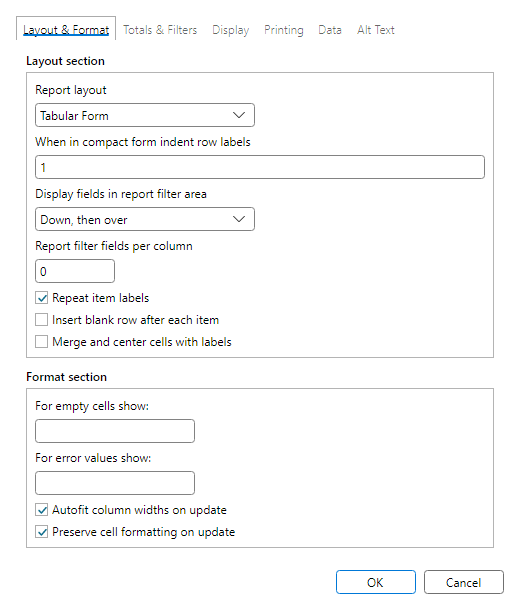
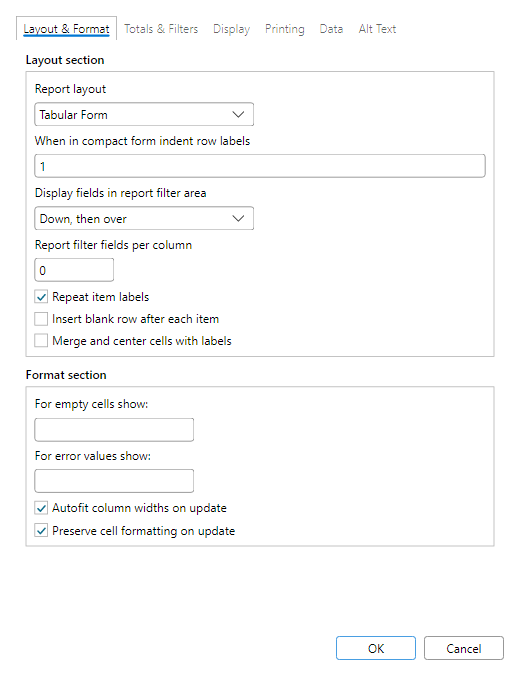
Close remaining FreeX dialog evidence limitations

Changed region(s): [[0.0308, 0.0, 0.9538, 0.9033], [0.6462, 0.9344, 0.9846, 0.9967], [0.6154, 0.0311, 0.7692, 0.0623]]

diff --git a/src/FreeX.App.Avalonia/MainWindow.ParityCapture.cs b/src/FreeX.App.Avalonia/MainWindow.ParityCapture.cs
@@ -1673,7 +1673,13 @@ public sealed partial class MainWindow
 
         try
         {
-            // Default surface first (whatever tab the dialog opens on).
+            // Default surface first (whatever tab the dialog opens on). Pump once before
+            // rendering so SizeToContent tab dialogs settle to the same frame the tab
+            // captures use after changing SelectedIndex.
+            await Task.Delay(ParityCaptureDialogPollMilliseconds);
+            await Dispatcher.UIThread.InvokeAsync(() => { }, DispatcherPriority.Render);
+            try { dialog.UpdateLayout(); } catch { /* best-effort */ }
+            Dispatcher.UIThread.RunJobs(DispatcherPriority.Render);
             results.Add(RenderParityDialogTab(outputDirectory, dialog, surfaceId, defaultPng, kind));
 
             // A real TabControl drives selection via SelectedIndex; the Options dialog instead carries an

diff --git a/src/FreeX.App.Presentation/PivotUI/PivotOptionsPlanner.cs b/src/FreeX.App.Presentation/PivotUI/PivotOptionsPlanner.cs
@@ -79,7 +79,7 @@ public static class PivotOptionsPlanner
     public const int DialogWidth = 520;
     public const int DialogMinHeight = 500;
     public const int LayoutAndFormatCaptureHeight = 676;
-    public const int LayoutAndFormatAvaloniaSpacerHeight = 56;
+    public const int LayoutAndFormatAvaloniaSpacerHeight = 57;
 
     public const string CompactIndentRangeMessage =
         "Enter a compact-form row-label indent between 0 and 15.";

diff --git a/docs/parity/dialog-visual-evidence-summary.md b/docs/parity/dialog-visual-evidence-summary.md
@@ -31,20 +31,19 @@ Sources:
 | WPF manifest ids without Avalonia pair | 0 |
 | Avalonia-manifest-only screenshot surface ids needing WPF manifest pair | 0 |
 | Nonblank PNG check failures | 0 |
-| Paired dimension mismatches (scale-aware logical units) | 32 |
-| Raw PNG pixel dimension mismatches | 61 |
+| Paired dimension mismatches (scale-aware logical units) | 29 |
+| Raw PNG pixel dimension mismatches | 58 |
 | Raw PNG mismatches normalized by capture DPI | 29 |
-| Paired expected-size evidence mismatches | 3 |
+| Paired expected-size evidence mismatches | 0 |
 | Stale promoted expected-size evidence | 0 |
 
 ## Scale-Aware Dimension Mismatch Classification
 
-The 32 scale-aware logical dimension mismatches are bucketed from committed PNG evidence and deterministic surface-id rules. Buckets describe the next review posture: align real layout sizes, fix content/state drift before comparing, accept expected platform/native control differences, or refresh limited evidence.
+The 29 scale-aware logical dimension mismatches are bucketed from committed PNG evidence and deterministic surface-id rules. Buckets describe the next review posture: align real layout sizes, fix content/state drift before comparing, accept expected platform/native control differences, or refresh limited evidence.
 
 | Bucket | Count | Top surface ids | Top next action |
 | --- | ---: | --- | --- |
 | content/visual mismatch | 10 | dialog.FormatCells.Fill<br>dialog.FormatCells.Alignment<br>dialog.FormatCells<br>dialog.FormatCells.Number<br>dialog.FormatCells.Border | Review the Format Cells tab model, tab order, and target frame size together. |
-| evidence limitation | 3 | dialog.PivotTableOptions<br>dialog.PivotTableOptions.LayoutAndFormat<br>dialog.ShapeGradient | Recapture or replace the stale evidence before treating this as a product layout mismatch. |
 | expected platform/native difference | 19 | dialog.FindReplace.Replace<br>dialog.FindReplace<br>dialog.FindReplace.Find<br>dialog.Sparkline<br>dialog.Options.QuickAccessToolbar | Keep as expected platform/native variance unless parity policy later requires exact control metrics. |
 
 ## Top paired visual outliers
@@ -94,11 +93,8 @@ Outliers are ranked by a deterministic triage score: normalized 32x32 ARGB sampl
 | dialog.Options.Save | expected platform/native difference | 744x521 | 760x560 | 16x39 | The PNGs show the same paired surface with small WPF/Avalonia control, chrome, or default-spacing differences. | Keep as expected platform/native variance unless parity policy later requires exact control metrics. |
 | dialog.Options.TrustCenter | expected platform/native difference | 744x521 | 760x560 | 16x39 | The PNGs show the same paired surface with small WPF/Avalonia control, chrome, or default-spacing differences. | Keep as expected platform/native variance unless parity policy later requires exact control metrics. |
 | dialog.Options.View | expected platform/native difference | 744x521 | 760x560 | 16x39 | The PNGs show the same paired surface with small WPF/Avalonia control, chrome, or default-spacing differences. | Keep as expected platform/native variance unless parity policy later requires exact control metrics. |
-| dialog.PivotTableOptions | evidence limitation | 520x676 | 520x610 | 0x66 | The checked-in PNG disagrees with an explicit expected capture size, so the dimension delta is suspect evidence. | Recapture or replace the stale evidence before treating this as a product layout mismatch. |
-| dialog.PivotTableOptions.LayoutAndFormat | evidence limitation | 520x676 | 520x610 | 0x66 | The checked-in PNG disagrees with an explicit expected capture size, so the dimension delta is suspect evidence. | Recapture or replace the stale evidence before treating this as a product layout mismatch. |
 | dialog.ProtectWorkbook | expected platform/native difference | 360x250 | 380x240 | 20x10 | The PNGs show the same paired surface with small WPF/Avalonia control, chrome, or default-spacing differences. | Keep as expected platform/native variance unless parity policy later requires exact control metrics. |
 | dialog.SelectDataSource | content/visual mismatch | 620x500 | 468x499 | 152x1 | The committed PNGs show different dialog content/state, so the size delta is not isolated layout evidence. | Align the harness data/state first, then reclassify any residual logical-size delta. |
-| dialog.ShapeGradient | evidence limitation | 500x333 | 500x300 | 0x33 | The checked-in PNG disagrees with an explicit expected capture size, so the dimension delta is suspect evidence. | Recapture or replace the stale evidence before treating this as a product layout mismatch. |
 | dialog.Sparkline | expected platform/native difference | 380x240 | 372x230 | 8x10 | The PNGs show the same paired surface with small WPF/Avalonia control, chrome, or default-spacing differences. | Keep as expected platform/native variance unless parity policy later requires exact control metrics. |
 
 ## Expected-Size Evidence Mismatches
@@ -107,9 +103,6 @@ These rows have a DPI-normalized checked-in PNG size that disagrees with the dia
 
 | Surface id | Expected logical size | Source | WPF logical size | WPF raw PNG | WPF matches | Avalonia logical size | Avalonia raw PNG | Avalonia matches |
 | --- | ---: | --- | ---: | ---: | --- | ---: | ---: | --- |
-| dialog.PivotTableOptions | 520x676 | PivotOptionsPlanner.DialogWidth/LayoutAndFormatCaptureHeight | 520x676 | 520x676 px @ 96 DPI | True | 520x610 | 520x610 px @ 96 DPI | False |
-| dialog.PivotTableOptions.LayoutAndFormat | 520x676 | PivotOptionsPlanner.DialogWidth/LayoutAndFormatCaptureHeight | 520x676 | 520x676 px @ 96 DPI | True | 520x610 | 520x610 px @ 96 DPI | False |
-| dialog.ShapeGradient | 500x300 | ShapeGradientPlanner.DialogWidth/DialogHeight | 500x333 | 500x333 px @ 96 DPI | False | 500x300 | 500x300 px @ 96 DPI | True |
 
 ## Paired manifest surfaces
 
@@ -175,11 +168,11 @@ These rows have a DPI-normalized checked-in PNG size that disagrees with the dia
 | dialog.PivotFieldFilter.LabelFilters | dialog.PivotFieldFilter.LabelFilters.png | 380x470 | 380x470 px @ 96 DPI | True | dialog.PivotFieldFilter.LabelFilters.png | 380x470 | 380x470 px @ 96 DPI | True | True | 0.453 |
 | dialog.PivotFieldFilter.SelectItems | dialog.PivotFieldFilter.SelectItems.png | 380x470 | 380x470 px @ 96 DPI | True | dialog.PivotFieldFilter.SelectItems.png | 380x470 | 380x470 px @ 96 DPI | True | True | 0.423 |
 | dialog.PivotFieldFilter.ValueFilters | dialog.PivotFieldFilter.ValueFilters.png | 380x470 | 380x470 px @ 96 DPI | True | dialog.PivotFieldFilter.ValueFilters.png | 380x470 | 380x470 px @ 96 DPI | True | True | 0.452 |
-| dialog.PivotTableOptions | dialog.PivotTableOptions.png | 520x676 | 520x676 px @ 96 DPI | True | dialog.PivotTableOptions.png | 520x610 | 520x610 px @ 96 DPI | True | False | 0.464 |
+| dialog.PivotTableOptions | dialog.PivotTableOptions.png | 520x676 | 520x676 px @ 96 DPI | True | dialog.PivotTableOptions.png | 520x676 | 520x676 px @ 96 DPI | True | True | 0.358 |
 | dialog.PivotTableOptions.AltText | dialog.PivotTableOptions.AltText.png | 520x500 | 520x500 px @ 96 DPI | True | dialog.PivotTableOptions.AltText.png | 520x500 | 520x500 px @ 96 DPI | True | True | 0.470 |
 | dialog.PivotTableOptions.Data | dialog.PivotTableOptions.Data.png | 520x500 | 520x500 px @ 96 DPI | True | dialog.PivotTableOptions.Data.png | 520x500 | 520x500 px @ 96 DPI | True | True | 0.549 |
 | dialog.PivotTableOptions.Display | dialog.PivotTableOptions.Display.png | 520x500 | 520x500 px @ 96 DPI | True | dialog.PivotTableOptions.Display.png | 520x500 | 520x500 px @ 96 DPI | True | True | 0.114 |
-| dialog.PivotTableOptions.LayoutAndFormat | dialog.PivotTableOptions.LayoutAndFormat.png | 520x676 | 520x676 px @ 96 DPI | True | dialog.PivotTableOptions.LayoutAndFormat.png | 520x610 | 520x610 px @ 96 DPI | True | False | 0.464 |
+| dialog.PivotTableOptions.LayoutAndFormat | dialog.PivotTableOptions.LayoutAndFormat.png | 520x676 | 520x676 px @ 96 DPI | True | dialog.PivotTableOptions.LayoutAndFormat.png | 520x676 | 520x676 px @ 96 DPI | True | True | 0.358 |
 | dialog.PivotTableOptions.Printing | dialog.PivotTableOptions.Printing.png | 520x500 | 520x500 px @ 96 DPI | True | dialog.PivotTableOptions.Printing.png | 520x500 | 520x500 px @ 96 DPI | True | True | 0.561 |
 | dialog.PivotTableOptions.TotalsAndFilters | dialog.PivotTableOptions.TotalsAndFilters.png | 520x500 | 520x500 px @ 96 DPI | True | dialog.PivotTableOptions.TotalsAndFilters.png | 520x500 | 520x500 px @ 96 DPI | True | True | 0.489 |
 | dialog.PivotValueFieldSettings | dialog.PivotValueFieldSettings.png | 430x430 | 430x430 px @ 96 DPI | True | dialog.PivotValueFieldSettings.png | 430x430 | 430x430 px @ 96 DPI | True | True | 0.472 |
@@ -197,7 +190,7 @@ These rows have a DPI-normalized checked-in PNG size that disagrees with the dia
 | dialog.SelectDataSource | dialog.SelectDataSource.png | 620x500 | 930x750 px @ 144 DPI | True | dialog.SelectDataSource.png | 468x499 | 468x499 px @ 96 DPI | True | False | 0.404 |
 | dialog.SelectionPane | dialog.SelectionPane.png | 520x440 | 520x440 px @ 96 DPI | True | dialog.SelectionPane.png | 520x440 | 520x440 px @ 96 DPI | True | True | 0.122 |
 | dialog.ShapeEffects | dialog.ShapeEffects.png | 380x190 | 570x285 px @ 144 DPI | True | dialog.ShapeEffects.png | 380x190 | 380x190 px @ 96 DPI | True | True | 0.215 |
-| dialog.ShapeGradient | dialog.ShapeGradient.png | 500x333 | 500x333 px @ 96 DPI | True | dialog.ShapeGradient.png | 500x300 | 500x300 px @ 96 DPI | True | False | 0.210 |
+| dialog.ShapeGradient | dialog.ShapeGradient.png | 500x300 | 500x300 px @ 96 DPI | True | dialog.ShapeGradient.png | 500x300 | 500x300 px @ 96 DPI | True | True | 0.082 |
 | dialog.Sort | dialog.Sort.png | 760x500 | 760x500 px @ 96 DPI | True | dialog.Sort.png | 760x500 | 760x500 px @ 96 DPI | True | True | 0.042 |
 | dialog.SortOptions | dialog.SortOptions.png | 330x260 | 495x390 px @ 144 DPI | True | dialog.SortOptions.png | 330x260 | 330x260 px @ 96 DPI | True | True | 0.237 |
 | dialog.Sparkline | dialog.Sparkline.png | 380x240 | 570x360 px @ 144 DPI | True | dialog.Sparkline.png | 372x230 | 372x230 px @ 96 DPI | True | False | 0.307 |

diff --git a/docs/parity/avalonia-wpf-cross-app-dashboard.md b/docs/parity/avalonia-wpf-cross-app-dashboard.md
@@ -6,9 +6,9 @@ Generated by `tools/Generate-CrossAppParityDashboard.ps1` from existing generate
 
 | App | Primary evidence | Current generated state | Next slice |
 |---|---|---|---|
-| FreeX | Functional matrix, classifier, dialog inventory, dialog visual evidence, command surface | 531 functional commands; 473 parity; 0 Avalonia-missing; 0 real classified binding gaps; 48 catalog-backed pseudo-gallery rows (34 conditional-format, 10 font/border, 4 accounting-symbol); 57/57 dialog routes captured on WPF and Avalonia; 93 paired screenshot surface ids, 0 Avalonia-only ids, 0 WPF-only ids; 61 raw PNG pixel mismatches, 29 DPI-normalized matches, 0 real logical-size mismatches | Command/dialog route coverage is green; all 48 pseudo-gallery rows are catalog-backed in classifier evidence (34 conditional-format rows over 38 runtime catalog items, 10 font/border rows, and 4 accounting-symbol rows), and dialog screenshot evidence has 93 paired WPF/Avalonia manifest surface ids with 0 Avalonia-only ids. Keep the 61 raw PNG pixel mismatches separate from missing-pair status: 29 normalize away by capture DPI, while 32 scale-aware paired mismatches remain for visual review, including 0 real logical-size mismatches and 0 stale promoted expected-size evidence rows. |
+| FreeX | Functional matrix, classifier, dialog inventory, dialog visual evidence, command surface | 531 functional commands; 473 parity; 0 Avalonia-missing; 0 real classified binding gaps; 48 catalog-backed pseudo-gallery rows (34 conditional-format, 10 font/border, 4 accounting-symbol); 57/57 dialog routes captured on WPF and Avalonia; 93 paired screenshot surface ids, 0 Avalonia-only ids, 0 WPF-only ids; 58 raw PNG pixel mismatches, 29 DPI-normalized matches, 0 real logical-size mismatches | Command/dialog route coverage is green; all 48 pseudo-gallery rows are catalog-backed in classifier evidence (34 conditional-format rows over 38 runtime catalog items, 10 font/border rows, and 4 accounting-symbol rows), and dialog screenshot evidence has 93 paired WPF/Avalonia manifest surface ids with 0 Avalonia-only ids. Keep the 58 raw PNG pixel mismatches separate from missing-pair status: 29 normalize away by capture DPI, while 29 scale-aware paired mismatches remain for visual review, including 0 real logical-size mismatches and 0 stale promoted expected-size evidence rows. |
 | FreeW | Generated command inventory | 794 commands; 361 shared-profile; 0 actionable WPF-missing; 0 actionable Avalonia-missing; 402 profile-shape-only; 19 command-id aliases; 12 platform-only; 0 deferred | Backstage print/export planner evidence now has paired WPF/Avalonia renderer contracts for PDF/preview fidelity; missing real captures fail the visual-evidence summary instead of being inferred. |
-| FreeP | Generated command/evidence inventory | 102 commands; 94 shared-profile; 0 actionable WPF-missing; 0 actionable Avalonia-missing; 8 platform-only; 5 workflow evidence rows | Layout picker, table picker, slide-pane reorder, bottom New Slide, notes-page preview/PDF rendering, presenter recording/ink execution, modern comments/review, and accessibility/proofing workflow depth now have WPF/Avalonia no-COM evidence paths. Continue workflow-depth slices in rich inline table/text editing, real narration/camera capture backends, deeper ink/custom-show persistence workflows, and PowerPoint baselines. |
+| FreeP | Generated command/evidence inventory | 103 commands; 95 shared-profile; 0 actionable WPF-missing; 0 actionable Avalonia-missing; 8 platform-only; 5 workflow evidence rows | Layout picker, table picker, slide-pane reorder, bottom New Slide, notes-page preview/PDF rendering, presenter recording/ink execution, modern comments/review, and accessibility/proofing workflow depth now have WPF/Avalonia no-COM evidence paths. Continue workflow-depth slices in rich inline table/text editing, real narration/camera capture backends, deeper ink/custom-show persistence workflows, and PowerPoint baselines. |
 
 ## Source Files
 
